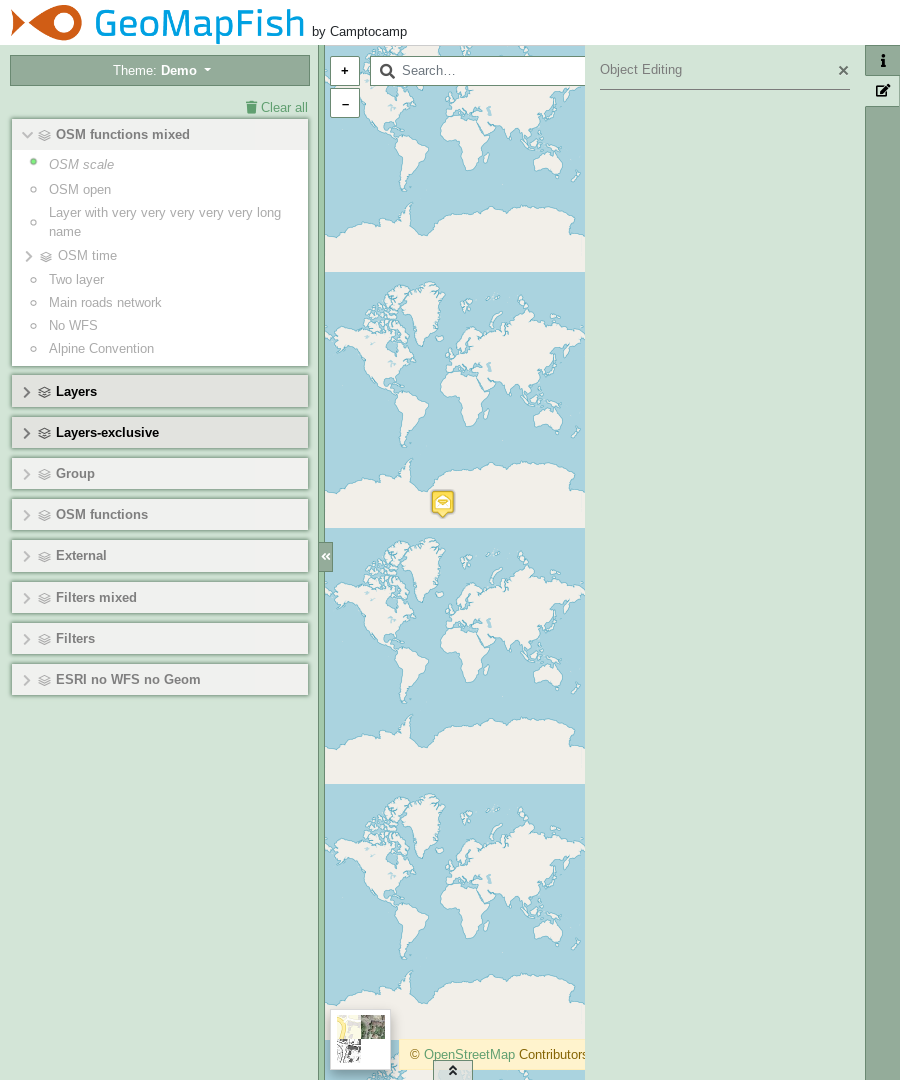
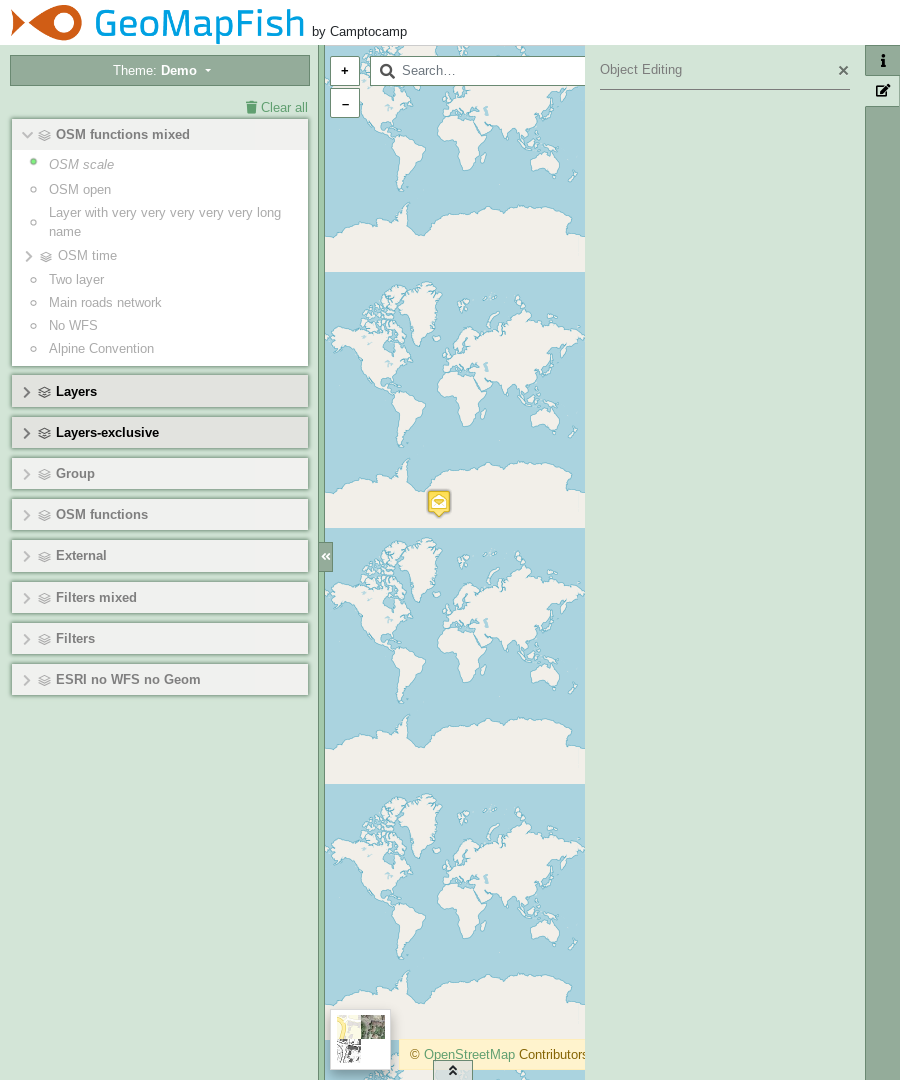
Constraint map pixel on grid pixel

diff --git a/src/controllers/AbstractAppController.js b/src/controllers/AbstractAppController.js
@@ -96,11 +96,27 @@ export function AbstractAppController($scope, $injector, mobile) {
   }
 
   const scaleline = document.getElementById('scaleline');
+
+  const view = new olView(this.options.view);
+  const constraints = view.getConstraints();
+  const centerConstraint = constraints.center;
+  constraints.center = (coord, resolution, size) => {
+    const newCenter = centerConstraint(coord, resolution, size);
+
+    const correctionX = ((newCenter[0] / resolution - size[0] / 2 + 0.5) % 1) - 0.5;
+    const correctionY = ((newCenter[1] / resolution - size[1] / 2 + 0.5) % 1) - 0.5;
+
+    newCenter[0] -= correctionX * resolution;
+    newCenter[1] -= correctionY * resolution;
+
+    return newCenter;
+  };
+
   const map = new olMap(
     Object.assign(
       {
         layers: [],
-        view: new olView(this.options.view),
+        view: view,
         controls: this.options.mapControls || [
           new olControlScaleLine({
             target: scaleline,

diff --git a/api/src/Map.js b/api/src/Map.js
@@ -128,6 +128,20 @@ class Map {
      */
     this.view_ = new View(viewOptions);
 
+    const constraints = this.view_.getConstraints();
+    const centerConstraint = constraints.center;
+    constraints.center = (coord, resolution, size) => {
+      const newCenter = centerConstraint(coord, resolution, size);
+
+      const correctionX = ((newCenter[0] / resolution - size[0] / 2 + 0.5) % 1) - 0.5;
+      const correctionY = ((newCenter[1] / resolution - size[1] / 2 + 0.5) % 1) - 0.5;
+
+      newCenter[0] -= correctionX * resolution;
+      newCenter[1] -= correctionY * resolution;
+
+      return newCenter;
+    };
+
     if (options.center !== undefined) {
       this.view_.setCenter(options.center);
     } else if (constants.extent) {
